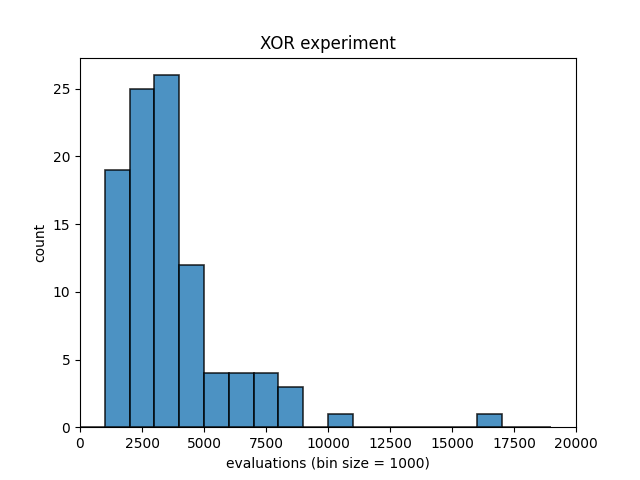
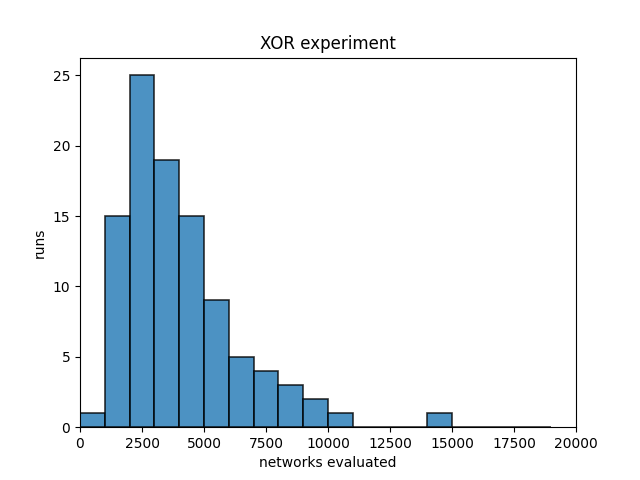
XOR results after bugfix

diff --git a/experiments/logical_xor.py b/experiments/logical_xor.py
@@ -114,7 +114,7 @@ class LogicalXor:
 
         plt.hist(data, bins=bins, alpha=0.8, edgecolor='black', linewidth=1.2)
         plt.title('XOR experiment')
-        plt.xlabel('evaluations (bin size = 1000)')
-        plt.ylabel('count')
+        plt.xlabel('networks evaluated')
+        plt.ylabel('runs')
 
         plt.show()

diff --git a/results/results.md b/results/results.md
@@ -1,22 +1,22 @@
 # XOR performance
 
-- Mean number of hidden nodes: 3.05
-- Std for hidden nodes: 1.4239030865898135
-- Mean number of links: 12.39
-- Std for links: 3.3193222199720234
-- Mean number of evaluations until solved: 3848.23
-- Std for evaluations: 2757.983850043361
+- Mean number of hidden nodes: 3.03
+- Std for hidden nodes: 1.493017079607598
+- Mean number of links: 12.73
+- Std for links: 3.7811506185287036
+- Mean number of evaluations until solved: 4045.94
+- Std for evaluations: 2316.3981903809195
 - Number of failures: 0
-- Worst performance: 19151
-- Number of optimal solutions: 10
+- Worst performance: 14355
+- Number of optimal solutions: 14
 
 ## Raw data
 
 ### Number of evaluations until solved.
-[3165, 4401, 4287, 6787, 3232, 7497, 2498, 2950, 3845, 3647, 3469, 2937, 2060, 6039, 2216, 2555, 2752, 4721, 3074, 1288, 2967, 1018, 5728, 3817, 8055, 1813, 2440, 2310, 6755, 5612, 2381, 3158, 1542, 10895, 1077, 3658, 1865, 2828, 19151, 1720, 3988, 1781, 4741, 3431, 1078, 3370, 4025, 3076, 3923, 3501, 3475, 4121, 1784, 2060, 8446, 3676, 2029, 1238, 3965, 1396, 2206, 4566, 1698, 1243, 1346, 2615, 3216, 1238, 4382, 4523, 1160, 2344, 2951, 3172, 4037, 3603, 1431, 4628, 2825, 3956, 1670, 3647, 7618, 3708, 8288, 2217, 2009, 16227, 2817, 7607, 3723, 5012, 4572, 2445, 2634, 7933, 2855, 5849, 3417, 6121]
+[8093, 5119, 2274, 5317, 4802, 4533, 3211, 9817, 2042, 7336, 2142, 1720, 3626, 3506, 4751, 2282, 4521, 5648, 6587, 3747, 1433, 4134, 3242, 5499, 4817, 3400, 6351, 1799, 2892, 3470, 5308, 2873, 1140, 3966, 6099, 9614, 6258, 2075, 3652, 8933, 5868, 2654, 3700, 2297, 5357, 7231, 3241, 1523, 4590, 2673, 2627, 4392, 2713, 4857, 1427, 1689, 2489, 2478, 7378, 1974, 3867, 10745, 1533, 4948, 4645, 2576, 2733, 2668, 2815, 1039, 798, 7396, 4777, 1992, 3804, 6215, 1848, 2232, 3360, 5958, 3610, 1684, 3914, 2995, 1491, 2074, 5372, 2349, 1778, 14355, 2986, 4069, 4109, 4931, 3032, 2669, 2745, 3221, 8544, 3530]
 
 ### Number of hidden nodes per network
-[3, 2, 1, 6, 5, 4, 3, 4, 2, 3, 2, 3, 3, 4, 2, 1, 2, 5, 2, 2, 5, 1, 3, 3, 8, 3, 3, 3, 3, 3, 4, 1, 1, 5, 2, 3, 2, 4, 7, 2, 5, 3, 6, 4, 2, 2, 5, 6, 1, 5, 3, 5, 1, 4, 4, 4, 3, 1, 4, 2, 4, 3, 3, 2, 2, 2, 3, 2, 3, 3, 2, 1, 2, 2, 3, 1, 2, 5, 3, 4, 2, 2, 2, 2, 3, 2, 3, 3, 3, 7, 3, 3, 2, 4, 2, 3, 3, 2, 4, 3]
+[4, 1, 2, 5, 1, 2, 4, 3, 1, 5, 1, 1, 3, 3, 3, 2, 1, 4, 4, 5, 3, 4, 3, 5, 3, 3, 5, 3, 3, 2, 5, 1, 2, 2, 4, 4, 3, 3, 2, 1, 2, 3, 7, 3, 9, 4, 5, 2, 3, 3, 2, 3, 2, 4, 3, 2, 2, 2, 4, 1, 2, 4, 2, 7, 3, 2, 2, 5, 3, 1, 1, 3, 4, 3, 3, 5, 3, 3, 3, 4, 1, 2, 3, 6, 2, 4, 5, 4, 1, 2, 4, 2, 2, 5, 1, 2, 3, 2, 2, 5]
 
 ### Number of links per network
-[13, 10, 9, 15, 14, 17, 11, 14, 13, 13, 8, 15, 12, 12, 14, 7, 12, 13, 13, 10, 16, 6, 15, 12, 21, 9, 10, 12, 12, 14, 14, 7, 9, 17, 9, 14, 8, 17, 24, 9, 17, 10, 18, 15, 9, 11, 18, 17, 9, 17, 12, 15, 11, 11, 14, 15, 10, 7, 12, 9, 12, 13, 11, 9, 10, 10, 11, 9, 13, 10, 8, 7, 14, 12, 14, 7, 10, 17, 15, 14, 8, 11, 11, 10, 15, 10, 9, 17, 14, 20, 14, 16, 12, 11, 11, 14, 13, 11, 14, 15]
+[15, 9, 10, 20, 11, 11, 14, 16, 9, 18, 7, 9, 12, 15, 14, 9, 9, 19, 16, 17, 10, 17, 13, 13, 14, 13, 19, 10, 14, 10, 17, 9, 10, 10, 19, 17, 17, 9, 11, 7, 13, 13, 17, 10, 25, 17, 14, 8, 16, 12, 11, 13, 8, 16, 10, 9, 12, 12, 20, 7, 15, 18, 7, 22, 16, 10, 8, 11, 12, 9, 7, 14, 12, 13, 13, 18, 12, 12, 13, 16, 9, 8, 15, 14, 10, 12, 19, 13, 7, 9, 12, 10, 8, 15, 7, 13, 12, 10, 14, 16]
